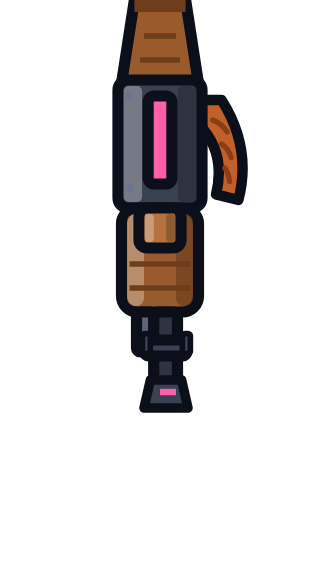
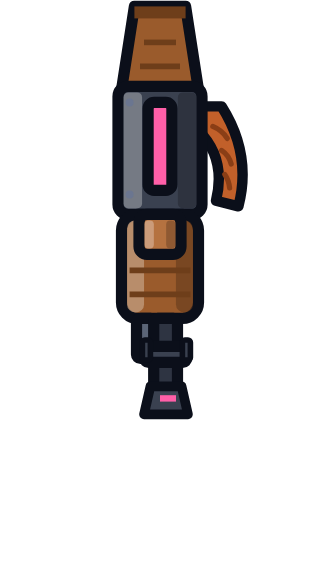
Arsenal: previzualizarea nu mai taie arta lată; stocul Grizzly nu mai e tăiat
Scena arăta doar mijlocul de 44 de unități al cadrului armei pe lățime, deci aripile Viespei (±38), penele
Șoimului (±29) și Celestial, Cristal, Golem (±24-25) erau tăiate drept. _arsBox măsoară acum și cât de lată e
imaginea, iar _arsFitGun o micșorează (--fit, --ody) în jurul mijlocului pixelilor ei dacă depășește banda; arta
care încape rămâne la aceeași mărime. Sprite-urile Grizzly (de bază și gr_*) atingeau marginea de sus a cadrului
și stocul rămânea fără contur: sunt coborâte cu 1,6 unități și re-randate (SVG + PNG), mâinile și gura skinurilor
mutate la fel; la arma de bază doar mâinile, muzzle (gloanțele) rămâne neschimbat. Iconițele refăcute.

Claude-Session: https://claude.ai/code/session_013B1BmmjBdnALmFtKRmq8Tw

Changed region(s): [[0.3438, 0.0, 0.7812, 0.75]]

diff --git a/public/game.js b/public/game.js
@@ -555,7 +555,15 @@ function _arsBox(e) {
         let y0 = 0, y1 = H - 1;
         while (y0 < H && !rowHas(y0)) y0++;
         while (y1 > y0 && !rowHas(y1)) y1--;
-        if (y0 < H) e.box = [y0 / H * 144, (y1 + 1) / H * 144];
+        if (y0 < H) {
+            e.box = [y0 / H * 144, (y1 + 1) / H * 144];
+            // and how far it reaches across (wings, feathers): the stage shows the middle 44 units, wider art is shrunk to fit
+            const colHas = x => { for (let y = y0; y <= y1; y++) if (a[(y * W + x) * 4 + 3] > 12) return true; return false; };
+            let x0 = 0, x1 = W - 1;
+            while (x0 < W && !colHas(x0)) x0++;
+            while (x1 > x0 && !colHas(x1)) x1--;
+            e.bx = [x0 / W * 80, (x1 + 1) / W * 80];
+        }
     } catch { /* a picture that cannot be read stays where the frame puts it */ }
     return e.box;
 }
@@ -579,6 +587,10 @@ async function _arsFitGun(swap) {
     if (seq !== _arsGunSeq || !wrap.isConnected) return;   // another click came first
     const box = _arsBox(e), el = e.img;
     wrap.style.setProperty('--dx', box ? ((72 - (box[0] + box[1]) / 2) / 144 * 100).toFixed(3) + '%' : '0%');
+    // art wider than the 44 units the stage shows (the Viespe's wings, the Soim's feathers) is scaled down about the middle of its pixels
+    const half = e.bx ? Math.max(40 - e.bx[0], e.bx[1] - 40) + 2 : 0;
+    wrap.style.setProperty('--fit', half > 22 ? (22 / half).toFixed(3) : '1');
+    wrap.style.setProperty('--ody', box ? (((box[0] + box[1]) / 2 / 144 - 0.5) * 100).toFixed(2) + '%' : '0%');
     el.className = '';
     el.alt = ''; el.draggable = false;
     if (el.parentNode !== wrap) wrap.replaceChildren(el);

diff --git a/public/style.css b/public/style.css
@@ -4655,7 +4655,9 @@ button:disabled { cursor: not-allowed; }
     top: -113.6364%;           /* (100% - 144/44) / 2, in wrapper heights */
     width: 55.5556%;           /* 80 / 144 of the wrapper width */
     height: 327.2727%;         /* 144 / 44 of the wrapper height */
-    transform: rotate(-90deg);
+    /* turned barrel-right; art wider than the stage is shrunk (--fit) about the middle of its pixels (--ody: how far that is from the image's middle, in image heights) */
+    --gt: rotate(-90deg) translateY(var(--ody, 0%)) scale(var(--fit, 1)) translateY(calc(-1 * var(--ody, 0%)));
+    transform: var(--gt);
     filter: drop-shadow(0 6px 0 rgba(0, 0, 0, .35));
     pointer-events: none;
     -webkit-user-drag: none;
@@ -4663,8 +4665,8 @@ button:disabled { cursor: not-allowed; }
 }
 .ars-gun img.is-in { opacity: 1; animation: arsGunIn .42s var(--spring); }
 .ars-gun img.is-in.is-swap { animation: arsGunSwap .2s var(--settle); }   /* a skin click: a quick pop, never from empty */
-@keyframes arsGunIn { from { opacity: 0; transform: rotate(-90deg) translateY(-14px); } }
-@keyframes arsGunSwap { from { opacity: .35; transform: rotate(-90deg) translateY(-7px) scale(.97); } }
+@keyframes arsGunIn { from { opacity: 0; transform: var(--gt) translateY(-14px); } }
+@keyframes arsGunSwap { from { opacity: .35; transform: var(--gt) translateY(-7px) scale(.97); } }
 @media (prefers-reduced-motion: reduce) { .ars-gun img.is-in, .ars-gun img.is-in.is-swap { animation: none; } }
 .ars-stage.is-hand { cursor: crosshair; }
 #ars-hand { position: absolute; inset: 0; width: 100%; height: 100%; }

diff --git a/CLAUDE.md b/CLAUDE.md
@@ -42,7 +42,7 @@ Dependențe directe: express, socket.io, socket.io-msgpack-parser, notepack.io, 
 
 **Randarea.** Solul static (iarbă, marcaje, chenar) e pictat o dată în dale de 256 unități cu margine suprapusă de 6, la scara curentă (max 2,5 px/unitate), reconstruit când scara se stabilizează; buget 72 MB desktop / 40 MB iOS-Android, dalele nefolosite 20 s se eliberează; până la construcție, dala se desenează vectorial. `ARGround.setTheme(sezon)` invalidează cache-ul. `?gfx=legacy` desenează vechiul mod. **Pixeli întregi**: `draw()` rotunjește scara dispozitivului la multipli de 1/256 (`_sq`, schimbare ≤0,2%) și camera la pixeli întregi (`_ox/_oy` = unde cade lumea (0,0)); o dală de 256 de unități are atunci exact `n` pixeli și se copiază 1:1 la poziție întreagă (`ARGround.draw(..., ox, oy)`, `buildInt`). Dale construite pentru alt `n` (zoom-ul tocmai s-a mișcat) se desenează ca înainte, întinse, până se reconstruiesc. Același principiu pentru zonă (`drawZone(..., ox, oy, sq)`: hașura de `P = round(28·sq)` px, pe spațiul dispozitivului) și pentru vigneta roșie (gradient la dimensiunea canvas-ului, copiat 1:1). O poziție sau o scară fracționară face canvas-ul să filtreze fiecare pixel (bilinear), foarte scump în raster software. Zona (inelul, doar BR) rămâne vectorială în `ARArena.drawZone` pentru linii. Medkit-ul, moneda PvE și cioburile efectelor de moarte (zombi 0-4, jucător 5-9, `ARArena.drawShard`) sunt sprite-uri cache-uite ca restul. `ARArena.warm` le face (plus tipurile de zombi și cele 3 culori ale bazei) în primele cadre ale meciului, ca nimic să nu se construiască prima dată în mijlocul luptei. Etichetele (nume, HP, timerul zonei) și sprite-urile sunt cache-uite; `MAX_DPR = 2`. **Rezoluție dinamică (G5, `RS_*`/`_rsTick` în `game.js`)**: sub 54 fps timp de 2 s dpr-ul intern coboară pe pașii 1/0,85/0,72/0,62/0,54, probă în sus după 12 s bune (dublează așteptarea dacă eșuează), pas anulat dacă nu ridică fps-ul; `?rs=off` / `?rs=0.6` pentru măsurători.
 
-**Arme și skinuri.** `weapons.json` e sursa unică (server și client): 9 arme — Scout (pistol), Stinger (smg), Vanguard (assault), Falcon (burst, clasa assault), Grizzly (tip AK), Raptor (tip M4) și Titan (tip SCAR) (assault, automate, DPS ~40 ca Vanguard, fără dispersie), Boomer (shotgun), Hawkeye (sniper); id-urile interne sunt `pistol, smg, assault, burst, ar_grizzly, ar_falcon, ar_titan, shotgun, sniper` (`ar_falcon` = Raptor, ca să nu se confunde cu Falcon-ul burst). Sprite-urile noi vin din artefactul „Arme Arena”; iconițele se refac cu `tools/build-weapon-icons.js`. **Skinurile de arme** (`weapon-skins.json`, 37: 4 per armă, cele 3 variante noi de Assault incluse, plus Viespe): rarități `rare` (1200 monede), `epic` (40 diamante), `legendary` (80 diamante), `mythic` (150 diamante, preț provizoriu, de confirmat); 9 se deblochează la 50 de kills cu arma respectivă (primul rar al fiecărei arme) (din `weapon_stats`). Contul păstrează `owned_weapon_skins` și `equipped_weapon_skins` (migrare SQL). Serverul alege skinul echipat la `addPlayer` și îl reîmprospătează la `start-game` și `rematch`, îl trimite în `playersMeta`/`player-image`; clientul îl desenează cu `_gunLook` (sprite, mâini, flash, dâră). Gloanțele pornesc mereu din gura armei de bază: skinul e strict cosmetic. Cumpărarea/echiparea trec prin `/api/weapon-skins/*` (cumpărare cu verificare compare-and-set, serializată). Arsenalul (`screen-arsenal`, lobby) alege arma și skinul; meniul vechi de arme a fost scos. **Arsenalul are aceeași pagină pe orice ecran**: taburile de categorie (câte unul per clasă din `weapons.json`, în bara de sus) filtrează lista; sub 1280×620 px de CSS (telefon, tabletă mică) tot conținutul (`#ars-fit`) e așezat la dimensiunea de design și micșorat cu `transform: scale(k)` (`_arsFit` în `game.js`; `.is-scaled`, `--k` ține textul mic lizibil; `.is-tight` pe ecrane scurte), deci fără derulare. **Lobby-ul la fel**: `#lb-fit` (bara de sus + cele 3 coloane) e un container (`container: lbfit / size`), iar regulile de aranjare ale lobby-ului citesc `@container lbfit (...)` în loc de `@media` (convertite din `style.css`; regulile partajate cu alte ecrane, `.lb-btn*`/`.lb-topbar*`, rămân și în `@media`, cu `:where(:not(.lb-fit *))`); `_lobbyFit` în `game.js` îl așază la minim 1280×650 și îl micșorează pe telefon/tabletă (`.is-scaled`). Ferestrele (prieteni, misiuni, personaje), sala de așteptare și jocul nu sunt scalate. **Fără întârziere la tras**: `rules.aimDelay` din `weapons.json` e 0 (era 0,3 s), arma trage la primul tick după input; serverul și predicția clientului îl citesc din același loc. **Skinurile de personaj** (`skins.json`, 46: common 10, rare 10, epic 5, legendary 17, season 4; implicit `rookie`) se validează pe server; skinurile `season` nu au încă un mod de acordare (TODO în `server.js` și `game.js`).
+**Arme și skinuri.** `weapons.json` e sursa unică (server și client): 9 arme — Scout (pistol), Stinger (smg), Vanguard (assault), Falcon (burst, clasa assault), Grizzly (tip AK), Raptor (tip M4) și Titan (tip SCAR) (assault, automate, DPS ~40 ca Vanguard, fără dispersie), Boomer (shotgun), Hawkeye (sniper); id-urile interne sunt `pistol, smg, assault, burst, ar_grizzly, ar_falcon, ar_titan, shotgun, sniper` (`ar_falcon` = Raptor, ca să nu se confunde cu Falcon-ul burst). Sprite-urile noi vin din artefactul „Arme Arena”; iconițele se refac cu `tools/build-weapon-icons.js`. **Skinurile de arme** (`weapon-skins.json`, 37: 4 per armă, cele 3 variante noi de Assault incluse, plus Viespe): rarități `rare` (1200 monede), `epic` (40 diamante), `legendary` (80 diamante), `mythic` (150 diamante, preț provizoriu, de confirmat); 9 se deblochează la 50 de kills cu arma respectivă (primul rar al fiecărei arme) (din `weapon_stats`). Contul păstrează `owned_weapon_skins` și `equipped_weapon_skins` (migrare SQL). Serverul alege skinul echipat la `addPlayer` și îl reîmprospătează la `start-game` și `rematch`, îl trimite în `playersMeta`/`player-image`; clientul îl desenează cu `_gunLook` (sprite, mâini, flash, dâră). Gloanțele pornesc mereu din gura armei de bază: skinul e strict cosmetic. Cumpărarea/echiparea trec prin `/api/weapon-skins/*` (cumpărare cu verificare compare-and-set, serializată). Arsenalul (`screen-arsenal`, lobby) alege arma și skinul; meniul vechi de arme a fost scos. **Arsenalul are aceeași pagină pe orice ecran**: taburile de categorie (câte unul per clasă din `weapons.json`, în bara de sus) filtrează lista; sub 1280×620 px de CSS (telefon, tabletă mică) tot conținutul (`#ars-fit`) e așezat la dimensiunea de design și micșorat cu `transform: scale(k)` (`_arsFit` în `game.js`; `.is-scaled`, `--k` ține textul mic lizibil; `.is-tight` pe ecrane scurte), deci fără derulare. **Lobby-ul la fel**: `#lb-fit` (bara de sus + cele 3 coloane) e un container (`container: lbfit / size`), iar regulile de aranjare ale lobby-ului citesc `@container lbfit (...)` în loc de `@media` (convertite din `style.css`; regulile partajate cu alte ecrane, `.lb-btn*`/`.lb-topbar*`, rămân și în `@media`, cu `:where(:not(.lb-fit *))`); `_lobbyFit` în `game.js` îl așază la minim 1280×650 și îl micșorează pe telefon/tabletă (`.is-scaled`). Ferestrele (prieteni, misiuni, personaje), sala de așteptare și jocul nu sunt scalate. Previzualizarea armei arată mijlocul de 44 de unități al cadrului; arta mai lată (aripile Viespei, penele Șoimului) e micșorată să încapă (`_arsFitGun`: `--fit`, `--ody`). Sprite-urile Grizzly (de bază și gr_*) sunt coborâte cu 1,6 unități în cadru, ca stocul să nu mai fie tăiat sus; mâinile și gura skinurilor sunt mutate la fel. **Fără întârziere la tras**: `rules.aimDelay` din `weapons.json` e 0 (era 0,3 s), arma trage la primul tick după input; serverul și predicția clientului îl citesc din același loc. **Skinurile de personaj** (`skins.json`, 46: common 10, rare 10, epic 5, legendary 17, season 4; implicit `rookie`) se validează pe server; skinurile `season` nu au încă un mod de acordare (TODO în `server.js` și `game.js`).
 
 ## 5. Comenzi
 - Local fără bază de date: `SUPABASE_URL= SUPABASE_SERVICE_KEY= PORT=3100 node server.js` (fără chei, statisticile nu se salvează; login-ul acceptă orice nickname). Cu `.env` local (nu se comite) merge pe Supabase real — nu rula teste automate pe el.
